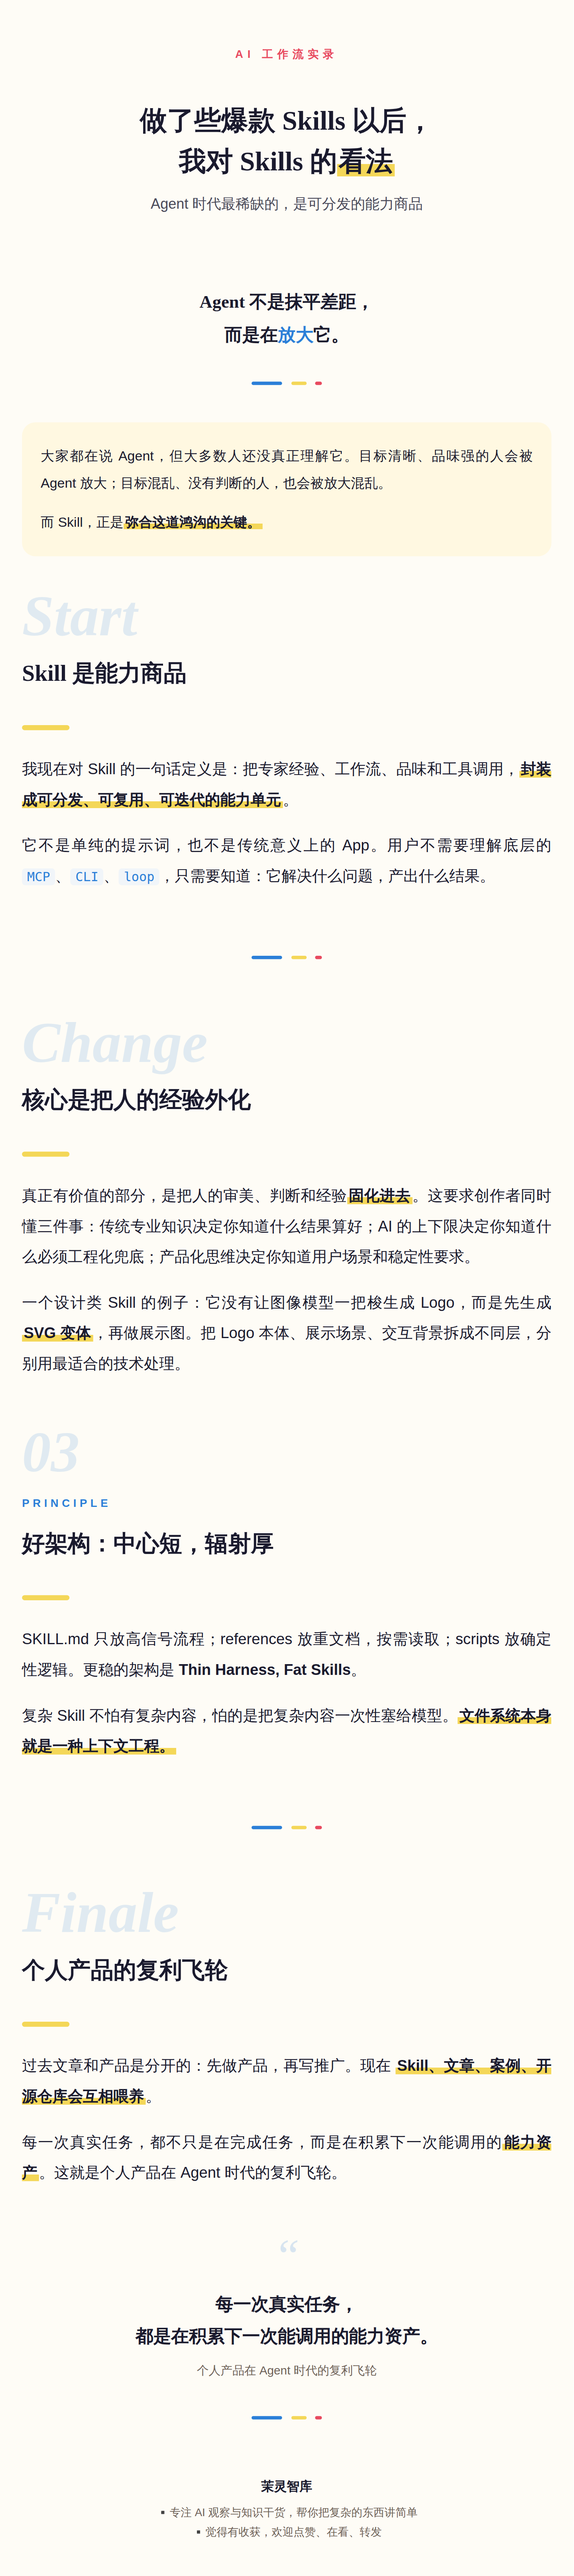
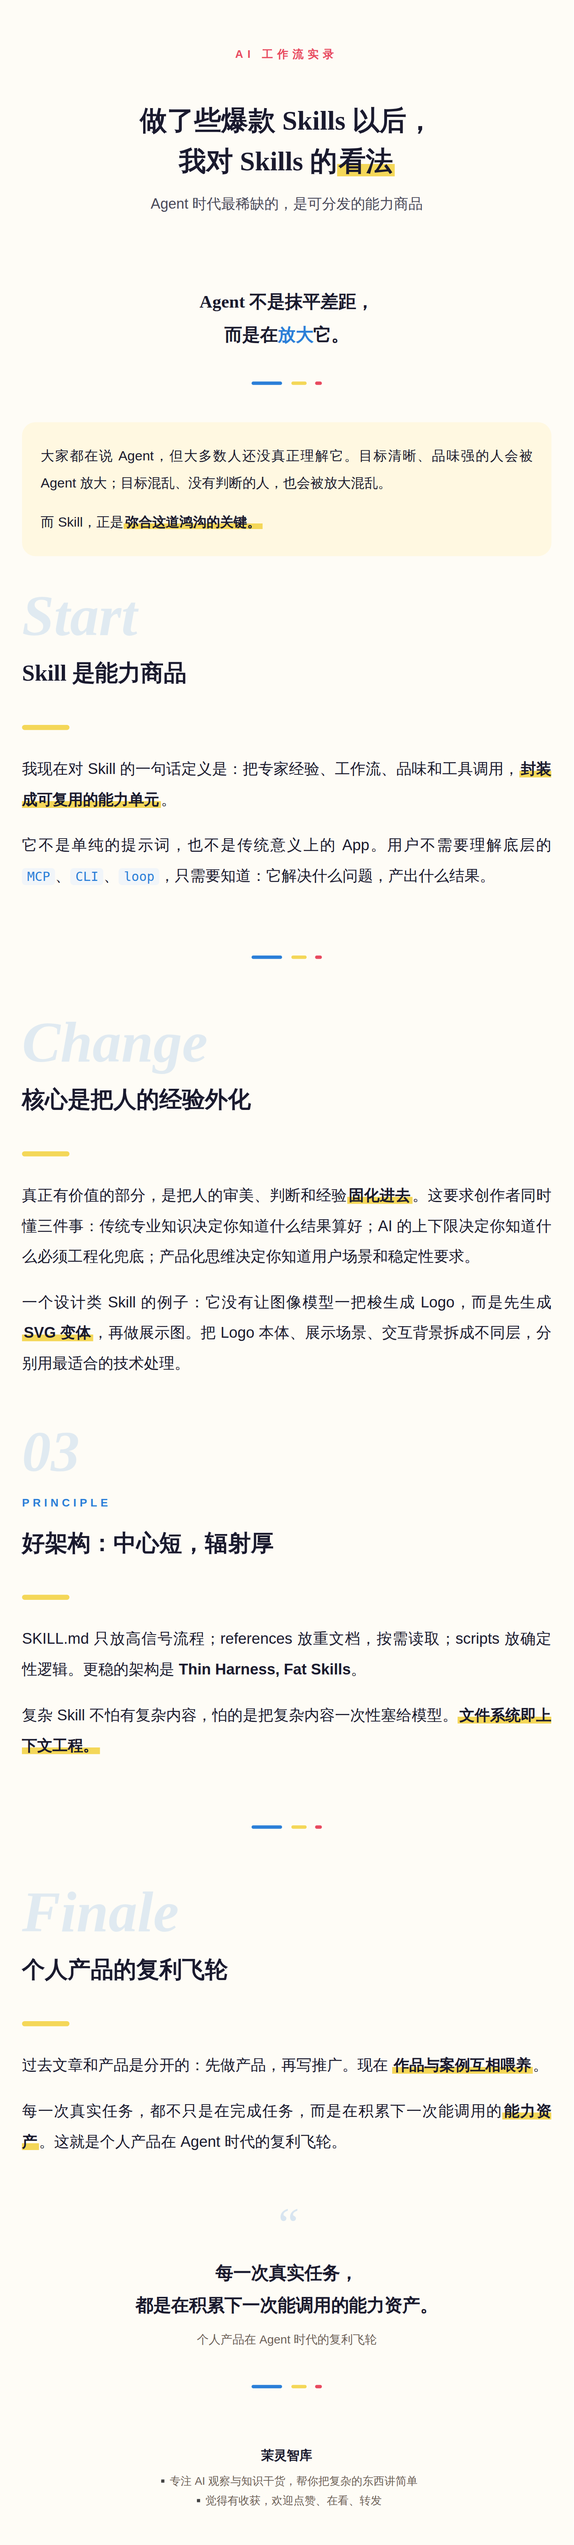
fix: 修复QA发现的渲染bug——高亮跨行溢出（截短高亮句）、journal复选框混用/标题多勾/品牌重复/占位块圆角、klein眉题字距偏移/行尾逗号/符号兼容、金句去重复

diff --git a/docs/gallery/letter.html b/docs/gallery/letter.html
@@ -46,7 +46,7 @@
     <section style="margin-bottom:22px;">
       <span style="display:inline-block;width:56px;height:6px;background:#F4D758;border-radius:3px;font-size:0;line-height:0;"><span leaf=""><br></span></span>
     </section>
-    <p style="margin:0 0 18px;font-size:18px;line-height:2;color:#1A1A2E;text-align:justify;"><span leaf="">我现在对 Skill 的一句话定义是：把专家经验、工作流、品味和工具调用，</span><span style="background:linear-gradient(transparent 60%, #F4D758 60%);font-weight:bold;padding:0 2px;"><span leaf="">封装成可分发、可复用、可迭代的能力单元</span></span><span leaf="">。</span></p>
+    <p style="margin:0 0 18px;font-size:18px;line-height:2;color:#1A1A2E;text-align:justify;"><span leaf="">我现在对 Skill 的一句话定义是：把专家经验、工作流、品味和工具调用，</span><span style="background:linear-gradient(transparent 60%, #F4D758 60%);font-weight:bold;padding:0 2px;"><span leaf="">封装成可复用的能力单元</span></span><span leaf="">。</span></p>
     <p style="margin:0 0 18px;font-size:18px;line-height:2;color:#1A1A2E;text-align:justify;"><span leaf="">它不是单纯的提示词，也不是传统意义上的 App。用户不需要理解底层的 </span><span style="background:#F1F5F9;color:#2B7FD8;padding:1px 6px;border-radius:4px;font-family:'SF Mono',Consolas,Monaco,monospace;font-size:15px;"><span leaf="">MCP</span></span><span leaf="">、</span><span style="background:#F1F5F9;color:#2B7FD8;padding:1px 6px;border-radius:4px;font-family:'SF Mono',Consolas,Monaco,monospace;font-size:15px;"><span leaf="">CLI</span></span><span leaf="">、</span><span style="background:#F1F5F9;color:#2B7FD8;padding:1px 6px;border-radius:4px;font-family:'SF Mono',Consolas,Monaco,monospace;font-size:15px;"><span leaf="">loop</span></span><span leaf="">，只需要知道：它解决什么问题，产出什么结果。</span></p>
   </section>
 
@@ -87,7 +87,7 @@
       <span style="display:inline-block;width:56px;height:6px;background:#F4D758;border-radius:3px;font-size:0;line-height:0;"><span leaf=""><br></span></span>
     </section>
     <p style="margin:0 0 18px;font-size:18px;line-height:2;color:#1A1A2E;text-align:justify;"><span leaf="">SKILL.md 只放高信号流程；references 放重文档，按需读取；scripts 放确定性逻辑。更稳的架构是 </span><strong style="color:#1A1A2E;"><span leaf="">Thin Harness, Fat Skills</span></strong><span leaf="">。</span></p>
-    <p style="margin:0;font-size:18px;line-height:2;color:#1A1A2E;text-align:justify;"><span leaf="">复杂 Skill 不怕有复杂内容，怕的是把复杂内容一次性塞给模型。</span><span style="background:linear-gradient(transparent 60%, #F4D758 60%);font-weight:bold;padding:0 2px;"><span leaf="">文件系统本身就是一种上下文工程。</span></span></p>
+    <p style="margin:0;font-size:18px;line-height:2;color:#1A1A2E;text-align:justify;"><span leaf="">复杂 Skill 不怕有复杂内容，怕的是把复杂内容一次性塞给模型。</span><span style="background:linear-gradient(transparent 60%, #F4D758 60%);font-weight:bold;padding:0 2px;"><span leaf="">文件系统即上下文工程。</span></span></p>
   </section>
 
   <!-- 三色分隔条 -->
@@ -108,7 +108,7 @@
     <section style="margin-bottom:22px;">
       <span style="display:inline-block;width:56px;height:6px;background:#F4D758;border-radius:3px;font-size:0;line-height:0;"><span leaf=""><br></span></span>
     </section>
-    <p style="margin:0 0 18px;font-size:18px;line-height:2;color:#1A1A2E;text-align:justify;"><span leaf="">过去文章和产品是分开的：先做产品，再写推广。现在 </span><span style="background:linear-gradient(transparent 60%, #F4D758 60%);font-weight:bold;padding:0 2px;"><span leaf="">Skill、文章、案例、开源仓库会互相喂养</span></span><span leaf="">。</span></p>
+    <p style="margin:0 0 18px;font-size:18px;line-height:2;color:#1A1A2E;text-align:justify;"><span leaf="">过去文章和产品是分开的：先做产品，再写推广。现在 </span><span style="background:linear-gradient(transparent 60%, #F4D758 60%);font-weight:bold;padding:0 2px;"><span leaf="">作品与案例互相喂养</span></span><span leaf="">。</span></p>
     <p style="margin:0;font-size:18px;line-height:2;color:#1A1A2E;text-align:justify;"><span leaf="">每一次真实任务，都不只是在完成任务，而是在积累下一次能调用的</span><span style="background:linear-gradient(transparent 60%, #F4D758 60%);font-weight:bold;padding:0 2px;"><span leaf="">能力资产</span></span><span leaf="">。这就是个人产品在 Agent 时代的复利飞轮。</span></p>
   </section>
 

diff --git a/docs/gallery/daily.html b/docs/gallery/daily.html
@@ -12,13 +12,13 @@
     <section style="border-radius:14px;background:#E0F6EF;padding:22px 20px 20px;margin-bottom:18px;">
       <p style="margin:0 0 8px;font-size:13px;font-weight:bold;color:#215044;letter-spacing:1px;"><span leaf="">🫧 模型 · 01</span></p>
       <p style="margin:0 0 10px;font-size:18px;font-weight:900;color:#1F2226;line-height:1.6;"><span leaf="">开源模型在长文本上首次反超闭源</span></p>
-      <p style="margin:0;font-size:15px;line-height:1.95;color:#3A4440;text-align:justify;"><span leaf="">长上下文基准刷新纪录，意味着「私有化部署 + 长文档」第一次有了性价比方案。</span><span style="background:linear-gradient(transparent 60%, #FBD97C 60%);font-weight:bold;"><span leaf="">本地知识库这件事，门槛正式降到了个人级。</span></span></p>
+      <p style="margin:0;font-size:15px;line-height:1.95;color:#3A4440;text-align:justify;"><span leaf="">长上下文基准刷新纪录，意味着「私有化部署 + 长文档」第一次有了性价比方案。</span><span style="background:linear-gradient(transparent 60%, #FBD97C 60%);font-weight:bold;"><span leaf="">长文本门槛降到个人级。</span></span></p>
     </section>
 
     <section style="border-radius:14px;background:#FEF2D3;padding:22px 20px 20px;margin-bottom:18px;">
       <p style="margin:0 0 8px;font-size:13px;font-weight:bold;color:#7A5000;letter-spacing:1px;"><span leaf="">💸 成本 · 02</span></p>
       <p style="margin:0 0 10px;font-size:18px;font-weight:900;color:#1F2226;line-height:1.6;"><span leaf="">两家大厂同步下调 API 价格</span></p>
-      <p style="margin:0;font-size:15px;line-height:1.95;color:#5A4A30;text-align:justify;"><span leaf="">降幅 30%~50%，中小开发者的推理成本进一步走低。</span><span style="background:linear-gradient(transparent 60%, #A7E8CD 60%);font-weight:bold;"><span leaf="">价格战打到这个位置，比拼的已经是工程效率而非融资能力。</span></span></p>
+      <p style="margin:0;font-size:15px;line-height:1.95;color:#5A4A30;text-align:justify;"><span leaf="">降幅 30%~50%，中小开发者的推理成本进一步走低。</span><span style="background:linear-gradient(transparent 60%, #A7E8CD 60%);font-weight:bold;"><span leaf="">比拼的是工程效率。</span></span></p>
     </section>
 
     <section style="border-radius:14px;background:#FFE3F1;padding:22px 20px 20px;margin-bottom:18px;">
@@ -34,7 +34,7 @@
       <section style="flex:1;border-radius:12px;background:#EBF4FF;padding:18px 16px;">
         <p style="margin:0 0 6px;font-size:13px;font-weight:bold;color:#2C5A8F;letter-spacing:1px;"><span leaf="">⌨ 工具 · 04</span></p>
         <p style="margin:0 0 6px;font-size:15px;font-weight:900;color:#1F2226;line-height:1.6;"><span leaf="">终端 AI 工具开源</span></p>
-        <p style="margin:0;font-size:13px;line-height:1.8;color:#4A5568;"><span leaf="">命令行里直接问「这报错什么意思」，中文文档场景友好。</span></p>
+        <p style="margin:0;font-size:13px;line-height:1.8;color:#4A5568;"><span leaf="">命令行直接问「报错什么意思」，中文文档场景友好。</span></p>
       </section>
       <section style="flex:1;border-radius:12px;background:#DFF6F9;padding:18px 16px;">
         <p style="margin:0 0 6px;font-size:13px;font-weight:bold;color:#1F6B78;letter-spacing:1px;"><span leaf="">📝 产品 · 05</span></p>
@@ -48,7 +48,7 @@
   <section style="border-radius:14px;background:#F0EAFE;padding:22px 20px 20px;margin-bottom:26px;">
     <p style="margin:0 0 8px;font-size:13px;font-weight:bold;color:#6A4BA1;letter-spacing:1px;"><span leaf="">💡 观点 · 06</span></p>
     <p style="margin:0 0 10px;font-size:18px;font-weight:900;color:#1F2226;line-height:1.6;"><span leaf="">「提示词工程师」招聘量腰斩</span></p>
-    <p style="margin:0;font-size:15px;line-height:1.95;color:#4A3D60;text-align:justify;"><span style="background:linear-gradient(transparent 60%, #DCCBFA 60%);font-weight:bold;"><span leaf="">提示词正在变成所有岗位的基础技能，而非独立职业。</span></span><span leaf="">把一件事写清楚，比堆「咒语」的技巧更值钱。</span></p>
+    <p style="margin:0;font-size:15px;line-height:1.95;color:#4A3D60;text-align:justify;"><span style="background:linear-gradient(transparent 60%, #DCCBFA 60%);font-weight:bold;"><span leaf="">提示词成基础技能。</span></span><span leaf="">把一件事写清楚，比堆「咒语」的技巧更值钱。</span></p>
   </section>
 
   <!-- 5. 收尾金句（珊瑚红大字，非色块框） -->

diff --git a/docs/gallery/klein-blue.html b/docs/gallery/klein-blue.html
@@ -1,11 +1,11 @@
 <section style="max-width:677px;margin:0 auto;background:#F4F6FE;font-family:-apple-system,'PingFang SC','Helvetica Neue',sans-serif;color:#16224A;font-size:16px;line-height:1.9;">
 
   <!-- 1. 开场：全屏蓝幅 + 错位白卡标题（打破"刊头+Hero"套路） -->
-  <section style="background:#002FA7;padding:48px 30px 92px;text-align:center;">
-    <p style="margin:0;font-family:Georgia,'Times New Roman',serif;font-size:12px;font-weight:bold;letter-spacing:5px;color:#C9D5FA;"><span leaf="">AGENT · SKILLS · 2026</span></p>
+  <section style="background:#002FA7;padding:52px 30px 104px;text-align:center;">
+    <p style="margin:0;font-family:Georgia,'Times New Roman',serif;font-size:12px;font-weight:bold;letter-spacing:5px;padding-left:5px;color:#C9D5FA;"><span leaf="">AGENT · SKILLS · 2026</span></p>
   </section>
   <section style="margin:-64px 26px 0;background:#FFFFFF;border-radius:18px;padding:32px 26px 30px;box-shadow:0 6px 24px rgba(0,47,167,0.10);">
-    <h2 style="margin:0 0 14px;font-size:26px;font-weight:900;line-height:1.55;color:#111C44;"><span leaf="">Agent 不是抹平能力差距，</span><br><span style="color:#002FA7;"><span leaf="">而是在放大它</span></span></h2>
+    <h2 style="margin:0 0 14px;font-size:26px;font-weight:900;line-height:1.55;color:#111C44;"><span leaf="">Agent 不是抹平能力差距</span><br><span style="color:#002FA7;"><span leaf="">而是在放大它</span></span></h2>
     <p style="margin:0;font-size:15px;line-height:1.95;color:#232C55;font-weight:bold;"><span leaf="">Skill，是把经验变成能力商品的那道桥。这篇聊三个判断。</span></p>
   </section>
 
@@ -48,12 +48,12 @@
     <p style="margin:0 0 10px;font-size:13px;font-weight:bold;color:#C9D5FA;letter-spacing:2px;"><span leaf="">判断三</span></p>
     <p style="margin:0 0 12px;font-size:19px;font-weight:900;color:#FFFFFF;line-height:1.6;"><span leaf="">个人产品的复利飞轮</span></p>
     <p style="margin:0 0 14px;font-size:15px;line-height:1.95;color:#DCE4FB;text-align:justify;"><span leaf="">过去文章和产品是分开的：先做产品，再写推广。现在 Skill、文章、案例、开源仓库会互相喂养——每一次真实任务，都是在积累下一次能调用的能力资产。</span></p>
-    <p style="margin:0;font-size:13px;font-weight:bold;letter-spacing:1px;color:#DCE4FB;"><span leaf="">文章 → 案例 → 信任 → 复用 → 新文章 ↺</span></p>
+    <p style="margin:0;font-size:13px;font-weight:bold;letter-spacing:1px;color:#DCE4FB;"><span leaf="">文章 → 案例 → 信任 → 复用 → 新的文章 → 继续写</span></p>
   </section>
 
   <!-- 6. 居中收束（浅蓝底大字，不用深色块） -->
   <section style="margin:52px 26px 0;text-align:center;padding:8px 10px 0;">
-    <p style="margin:0 0 14px;font-size:20px;font-weight:900;line-height:1.8;color:#111C44;"><span leaf="">每一次真实任务</span><br><span leaf="">都是在积累</span><span style="color:#002FA7;"><span leaf="">能力资产</span></span><span leaf="">。</span></p>
+    <p style="margin:0 0 14px;font-size:20px;font-weight:900;line-height:1.8;color:#111C44;"><span leaf="">每一次真实任务</span><br><span leaf="">都在变成</span><span style="color:#002FA7;"><span leaf="">下一次的起点</span></span><span leaf="">。</span></p>
     <span style="display:inline-block;width:44px;height:4px;border-radius:2px;background:#002FA7;font-size:0;line-height:0;"><span leaf=""><br></span></span>
   </section>
 
@@ -64,6 +64,6 @@
     <p style="margin:0;font-size:13px;color:#333F75;line-height:1.8;"><span leaf="">专注 AI 观察与知识干货 · 觉得有收获，欢迎点赞、在看、转发</span></p>
   </section>
 
-  <section style="height:30px;"><span leaf=""><br></span></section>
+  <section style="height:36px;"><span leaf=""><br></span></section>
 
 </section>

diff --git a/docs/gallery/journal.html b/docs/gallery/journal.html
@@ -75,13 +75,13 @@
   <!-- 9. 拍立得 -->
   <section style="margin:24px 0;text-align:center;">
     <section style="display:inline-block;padding:10px 10px 30px;background:#FFFFFF;border:1px solid rgba(31,34,38,0.08);border-radius:4px;box-shadow:0 4px 14px rgba(31,34,38,0.10);">
-      <span style="display:block;width:100%;max-width:280px;height:180px;background:#FDF0E4;border-radius:2px;text-align:center;font-size:14px;color:#4A4A52;"><span leaf="">📷 此处放你的阅读角照片</span></span>
+      <span style="display:block;width:100%;max-width:280px;height:180px;background:#FDF0E4;border:1.5px dashed #E8B4B8;border-radius:10px;text-align:center;font-size:14px;color:#4A4A52;"><span leaf="">📷 此处放你的阅读角照片</span></span>
       <p style="margin:8px 0 0;font-size:12px;color:#5F4449;"><span leaf="">读书角 · 秋天的下午</span></p>
     </section>
   </section>
 
   <!-- 10. 清单 -->
-  <p style="margin:26px 0 10px;font-size:16px;font-weight:900;color:#1F2226;"><span leaf="">下期重读候选 ☑</span></p>
+  <p style="margin:26px 0 10px;font-size:16px;font-weight:900;color:#1F2226;"><span leaf="">下期重读候选</span></p>
   <section style="margin-bottom:8px;">
     <span style="font-size:15px;color:#2F6B5B;font-weight:bold;"><span leaf="">☑</span></span>
     <span style="font-size:16px;color:#1F2226;"><span leaf="">《纳瓦尔宝典》—— 检验财富观的更新</span></span>
@@ -91,8 +91,8 @@
     <span style="font-size:16px;color:#1F2226;"><span leaf="">《卡片笔记写作法》—— 搭配 AI 用一次</span></span>
   </section>
   <section style="margin-bottom:8px;">
-    <span style="font-size:15px;color:#5F4449;"><span leaf="">☐</span></span>
-    <span style="font-size:16px;color:#5F4449;"><span leaf="">《失控》—— 太厚，给自己留个借口</span></span>
+    <span style="font-size:15px;color:#B98A90;font-weight:bold;"><span leaf="">☑</span></span>
+    <span style="font-size:16px;color:#8A7A80;text-decoration:line-through;"><span leaf="">《失控》—— 太厚，给自己留个借口</span></span>
   </section>
 
   <!-- 11. 结尾 -->

diff --git a/docs/gallery/magazine.html b/docs/gallery/magazine.html
@@ -36,7 +36,7 @@
     </section>
     <p style="margin:0 0 20px;font-size:18px;line-height:2;color:#1D2A2D;text-align:justify;">
       <span leaf="">她第一次听说 Agent 是在超市的夜班间隙。手机刷到一篇教程，看完只记住一句话：</span>
-      <span style="background:linear-gradient(transparent 60%, #F5CDB4 60%);font-weight:bold;padding:0 2px;"><span leaf="">让 AI 替你做重复的事，把人留给判断。</span></span>
+      <span style="background:linear-gradient(transparent 60%, #F5CDB4 60%);font-weight:bold;padding:0 2px;"><span leaf="">把重复的事交给 AI。</span></span>
     </p>
     <p style="margin:0;font-size:18px;line-height:2;color:#1D2A2D;text-align:justify;">
       <span leaf="">那天晚上她没有收藏吃灰，而是把教程里的例子跑了一遍。第二天又跑了一遍。第三周，她在超市员工群里发了第一条「代做表格」广告——免费，只要对方愿意告诉她哪里做得不够好。</span>
@@ -109,7 +109,7 @@
     </section>
     <p style="margin:0;font-size:18px;line-height:2;color:#1D2A2D;text-align:justify;">
       <span leaf="">她的下一个目标，是把这 14 个月的笔记整理成一本开源手册，写给和她一样起点的人。理由朴素得像她做过的每一个流程：</span>
-      <span style="background:linear-gradient(transparent 60%, #F5CDB4 60%);font-weight:bold;padding:0 2px;"><span leaf="">路上的坑，标记一个就少一个人踩。</span></span>
+      <span style="background:linear-gradient(transparent 60%, #F5CDB4 60%);font-weight:bold;padding:0 2px;"><span leaf="">标记一个坑，少踩一次。</span></span>
     </p>
   </section>
 
